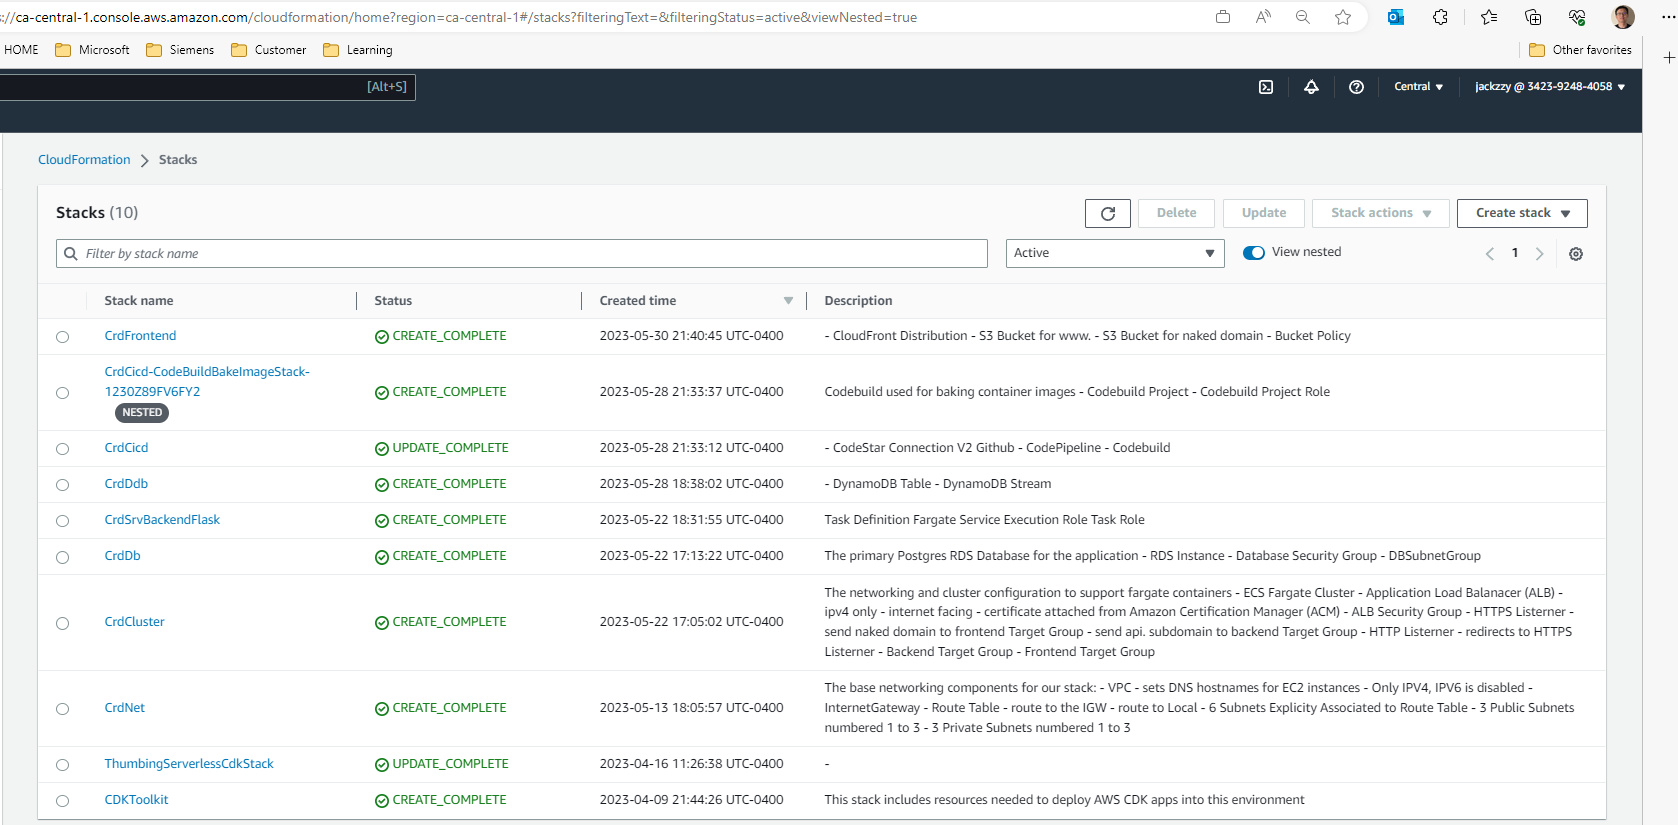
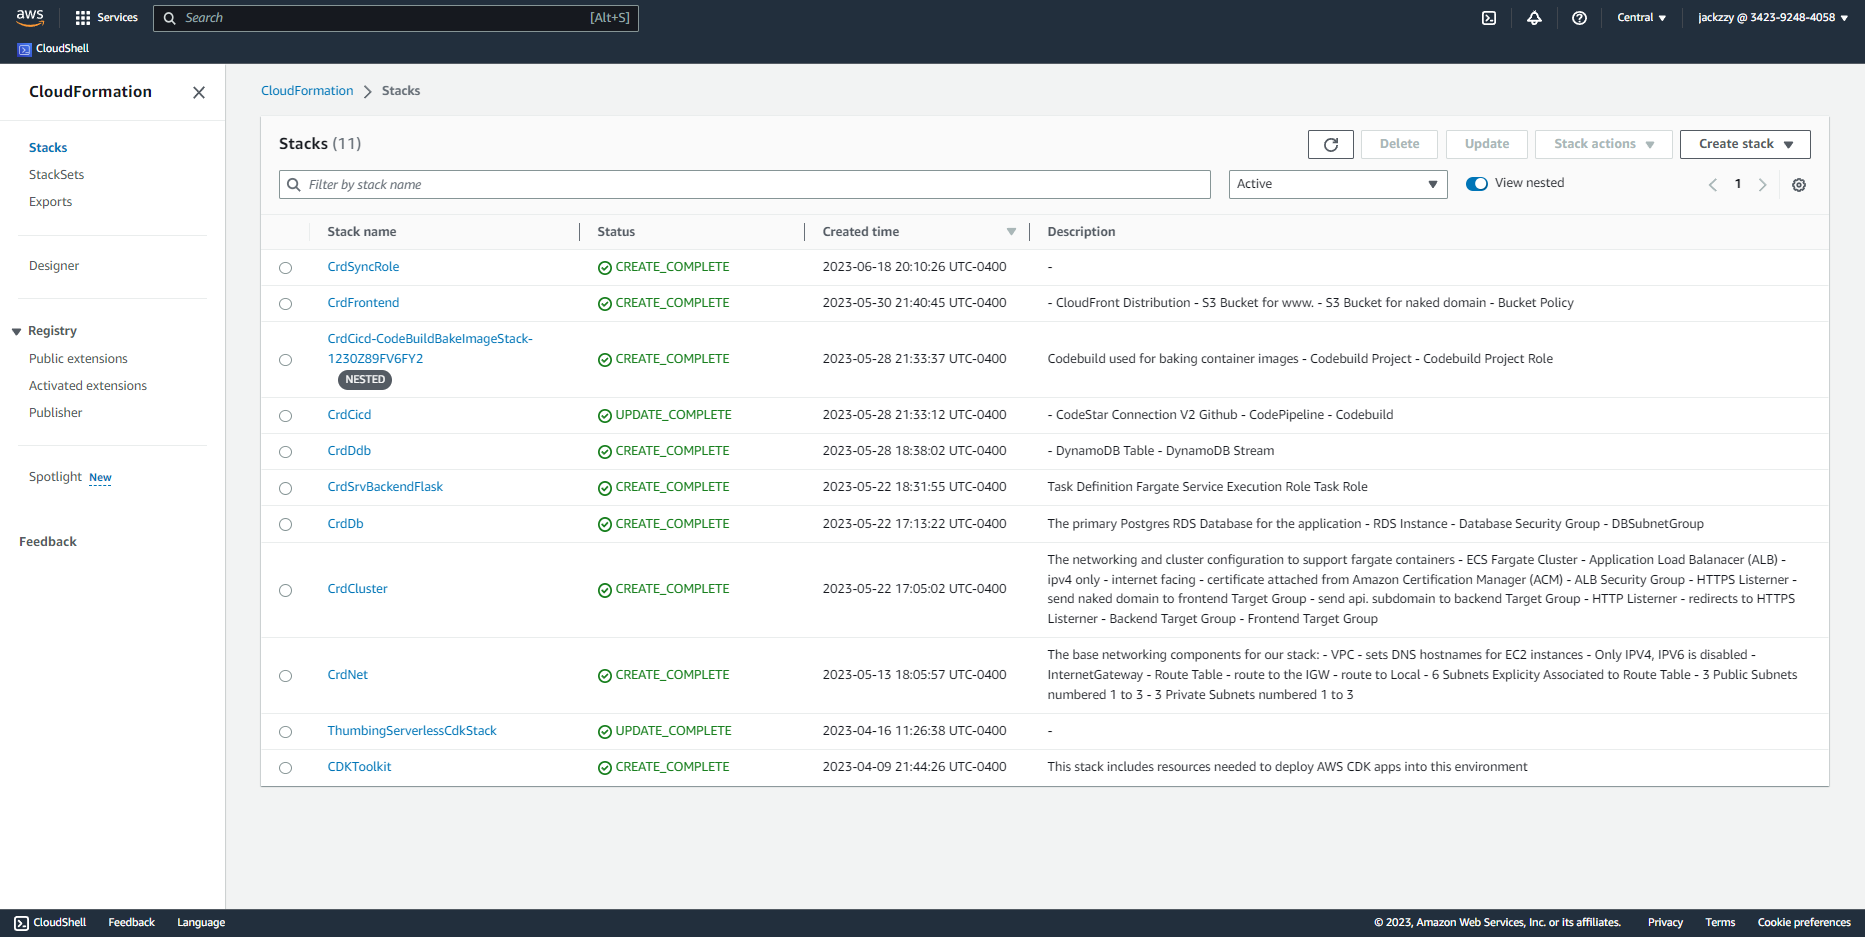
Week10

diff --git a/journal/week10.md b/journal/week10.md
@@ -14,4 +14,6 @@
 
 ### - CFN Static Website Hosting for Frontend
 
+### - CNF Sync Role
+
 ![screenshot](Assets/cfn.png)
